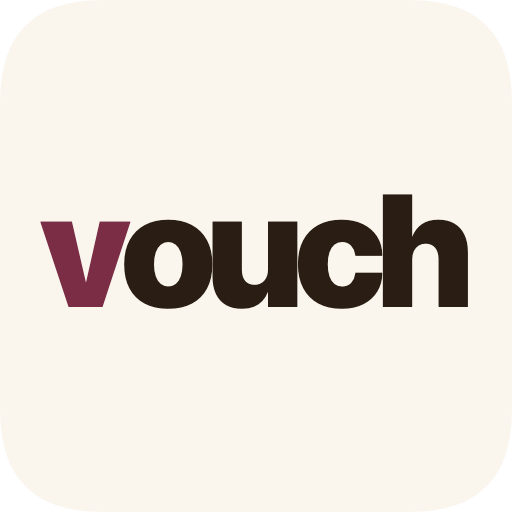
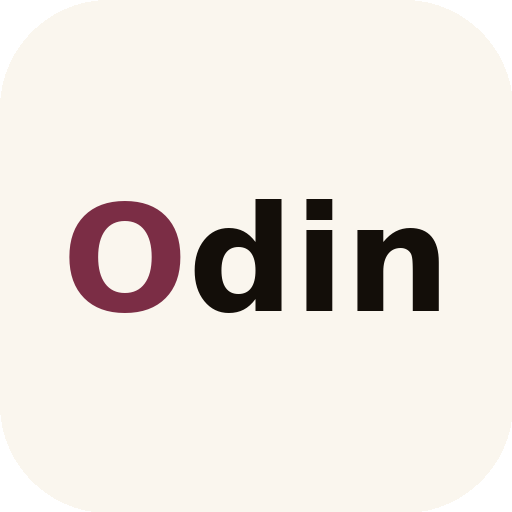
change the landing page as well.
update the landing page logo as well

Changed region(s): [[0.0625, 0.375, 0.9375, 0.625]]

diff --git a/odin-logo-favicon-preview.html b/odin-logo-favicon-preview.html
@@ -1,0 +1,272 @@
+<!DOCTYPE html>
+<html lang="en">
+<head>
+<meta charset="UTF-8">
+<meta name="viewport" content="width=device-width, initial-scale=1.0">
+<title>Odin — Logo & Favicon Assets</title>
+<link href="https://fonts.googleapis.com/css2?family=DM+Sans:wght@400;600;700;900&display=swap" rel="stylesheet">
+<style>
+* { margin:0; padding:0; box-sizing:border-box; }
+body { font-family: 'DM Sans', sans-serif; background: #F0EAE0; padding: 48px 24px 80px; }
+
+.wrap { max-width: 900px; margin: 0 auto; }
+
+.page-title { font-size: 22px; font-weight: 700; color: #130E09; letter-spacing: -0.02em; margin-bottom: 6px; }
+.page-sub   { font-size: 13px; color: #A89080; margin-bottom: 40px; }
+
+.section-title {
+  font-size: 10px; font-weight: 700; letter-spacing: 0.14em;
+  text-transform: uppercase; color: #A89080;
+  padding-bottom: 8px; border-bottom: 1px solid #D0BFA8;
+  margin-bottom: 14px; margin-top: 36px;
+}
+
+.row { display: grid; grid-template-columns: 1fr 1fr; gap: 12px; }
+
+.tile { border-radius: 16px; overflow: hidden; border: 1px solid rgba(0,0,0,0.08); }
+.tile-label {
+  font-size: 10px; font-weight: 700; letter-spacing: 0.14em;
+  text-transform: uppercase; padding: 14px 20px 10px;
+  border-bottom-width: 1px; border-bottom-style: solid;
+}
+.tile-body { padding: 36px 40px; display: flex; flex-direction: column; gap: 28px; }
+
+.tile-day  { background: #FAF6EE; }
+.tile-day  .tile-label { color: #A89080; background: #FAF6EE; border-color: #D0BFA8; }
+.tile-dark { background: #0B0F1A; }
+.tile-dark .tile-label { color: #4A5568; background: #0B0F1A; border-color: rgba(255,255,255,0.06); }
+
+/* Logo */
+.logo { font-family: 'DM Sans', sans-serif; font-weight: 900; letter-spacing: -0.04em; line-height: 1; }
+.size-row { display: flex; flex-direction: column; gap: 6px; }
+.size-label { font-size: 10px; font-weight: 600; letter-spacing: 0.1em; text-transform: uppercase; margin-bottom: 4px; }
+
+/* Favicon pill */
+.fav-sizes { display: flex; flex-direction: column; gap: 18px; }
+.fav-item { display: flex; align-items: center; gap: 16px; }
+.fav-pill {
+  display: flex; align-items: center; justify-content: center;
+  border-radius: 18%;
+  font-family: 'DM Sans', sans-serif; font-weight: 900; letter-spacing: -0.04em;
+  flex-shrink: 0;
+}
+.fav-meta { display: flex; flex-direction: column; gap: 2px; }
+.fav-sz   { font-size: 11px; font-weight: 700; }
+.fav-note { font-size: 11px; }
+
+/* Files */
+.file-list { background: white; border-radius: 16px; border: 1px solid #D0BFA8; overflow: hidden; margin-top: 10px; }
+.file-row { display: flex; align-items: center; justify-content: space-between; padding: 14px 20px; border-bottom: 1px solid #F0E8DC; }
+.file-row:last-child { border-bottom: none; }
+.file-name { font-size: 13px; font-weight: 600; color: #130E09; font-family: monospace; }
+.file-desc { font-size: 12px; color: #A89080; margin-top: 2px; }
+.file-badge { font-size: 10px; font-weight: 700; letter-spacing: 0.08em; text-transform: uppercase; padding: 3px 10px; border-radius: 6px; }
+.badge-svg { background: #7B2D4515; color: #7B2D45; }
+.badge-fav { background: #D4622A15; color: #D4622A; }
+
+/* Usage */
+.usage { background: #FAF6EE; border-radius: 14px; padding: 22px 26px; border: 1px solid #D0BFA8; margin-top: 10px; }
+.usage-title { font-size: 10px; font-weight: 700; letter-spacing: 0.12em; text-transform: uppercase; color: #7B2D45; margin-bottom: 12px; }
+.usage pre { font-size: 12px; line-height: 1.9; color: #130E09; font-family: monospace; white-space: pre-wrap; }
+.c { color: #A89080; }
+</style>
+</head>
+<body>
+<div class="wrap">
+
+  <div class="page-title"><span style="color:#7B2D45;">O</span>din — Logo &amp; Favicon Assets</div>
+  <div class="page-sub">SVG format · scales to any size · transparent background (logo) · pill background (favicon)</div>
+
+  <!-- WORDMARK -->
+  <div class="section-title">Wordmark — Full Logo</div>
+  <div class="row">
+    <div class="tile tile-day">
+      <div class="tile-label">☀ Day — Warm Stone</div>
+      <div class="tile-body">
+        <div class="size-row">
+          <div class="size-label" style="color:#A89080;">72px — Hero / Splash</div>
+          <div class="logo" style="font-size:72px;"><span style="color:#7B2D45;">O</span><span style="color:#130E09;">din</span></div>
+        </div>
+        <div class="size-row">
+          <div class="size-label" style="color:#A89080;">48px — Navbar</div>
+          <div class="logo" style="font-size:48px;"><span style="color:#7B2D45;">O</span><span style="color:#130E09;">din</span></div>
+        </div>
+        <div class="size-row">
+          <div class="size-label" style="color:#A89080;">32px — Compact</div>
+          <div class="logo" style="font-size:32px;"><span style="color:#7B2D45;">O</span><span style="color:#130E09;">din</span></div>
+        </div>
+        <div class="size-row">
+          <div class="size-label" style="color:#A89080;">20px — Minimum</div>
+          <div class="logo" style="font-size:20px;"><span style="color:#7B2D45;">O</span><span style="color:#130E09;">din</span></div>
+        </div>
+      </div>
+    </div>
+    <div class="tile tile-dark">
+      <div class="tile-label">🌙 Dark — Deep Navy</div>
+      <div class="tile-body">
+        <div class="size-row">
+          <div class="size-label" style="color:#4A5568;">72px — Hero / Splash</div>
+          <div class="logo" style="font-size:72px;"><span style="color:#D4622A;">O</span><span style="color:#F0EBE3;">din</span></div>
+        </div>
+        <div class="size-row">
+          <div class="size-label" style="color:#4A5568;">48px — Navbar</div>
+          <div class="logo" style="font-size:48px;"><span style="color:#D4622A;">O</span><span style="color:#F0EBE3;">din</span></div>
+        </div>
+        <div class="size-row">
+          <div class="size-label" style="color:#4A5568;">32px — Compact</div>
+          <div class="logo" style="font-size:32px;"><span style="color:#D4622A;">O</span><span style="color:#F0EBE3;">din</span></div>
+        </div>
+        <div class="size-row">
+          <div class="size-label" style="color:#4A5568;">20px — Minimum</div>
+          <div class="logo" style="font-size:20px;"><span style="color:#D4622A;">O</span><span style="color:#F0EBE3;">din</span></div>
+        </div>
+      </div>
+    </div>
+  </div>
+
+  <!-- FAVICON -->
+  <div class="section-title">Favicon — Full Wordmark at all sizes</div>
+  <div class="row">
+
+    <!-- DAY FAVICON -->
+    <div class="tile tile-day">
+      <div class="tile-label">☀ Day — Warm Stone</div>
+      <div class="tile-body">
+        <div class="fav-sizes">
+
+          <div class="fav-item">
+            <div class="fav-pill" style="width:180px;height:56px;background:#FAF6EE;border:1.5px solid #D0BFA8;border-radius:12px;">
+              <span style="font-size:38px;font-family:'DM Sans',sans-serif;font-weight:900;letter-spacing:-0.04em;"><span style="color:#7B2D45;">O</span><span style="color:#130E09;">din</span></span>
+            </div>
+            <div class="fav-meta">
+              <div class="fav-sz" style="color:#A89080;">180×56 — App icon</div>
+              <div class="fav-note" style="color:#C0B0A0;">Splash, loading screen</div>
+            </div>
+          </div>
+
+          <div class="fav-item">
+            <div class="fav-pill" style="width:120px;height:40px;background:#FAF6EE;border:1.5px solid #D0BFA8;border-radius:9px;">
+              <span style="font-size:26px;font-family:'DM Sans',sans-serif;font-weight:900;letter-spacing:-0.04em;"><span style="color:#7B2D45;">O</span><span style="color:#130E09;">din</span></span>
+            </div>
+            <div class="fav-meta">
+              <div class="fav-sz" style="color:#A89080;">120×40 — Navbar</div>
+              <div class="fav-note" style="color:#C0B0A0;">Top bar, header</div>
+            </div>
+          </div>
+
+          <div class="fav-item">
+            <div class="fav-pill" style="width:80px;height:28px;background:#FAF6EE;border:1.5px solid #D0BFA8;border-radius:6px;">
+              <span style="font-size:18px;font-family:'DM Sans',sans-serif;font-weight:900;letter-spacing:-0.04em;"><span style="color:#7B2D45;">O</span><span style="color:#130E09;">din</span></span>
+            </div>
+            <div class="fav-meta">
+              <div class="fav-sz" style="color:#A89080;">80×28 — Compact</div>
+              <div class="fav-note" style="color:#C0B0A0;">Tab bar, small UI</div>
+            </div>
+          </div>
+
+          <div class="fav-item">
+            <div class="fav-pill" style="width:52px;height:20px;background:#FAF6EE;border:1.5px solid #D0BFA8;border-radius:4px; padding: 0 4px;">
+              <span style="font-size:12px;font-family:'DM Sans',sans-serif;font-weight:900;letter-spacing:-0.03em;"><span style="color:#7B2D45;">O</span><span style="color:#130E09;">din</span></span>
+            </div>
+            <div class="fav-meta">
+              <div class="fav-sz" style="color:#A89080;">52×20 — Browser tab</div>
+              <div class="fav-note" style="color:#C0B0A0;">Favicon in browser</div>
+            </div>
+          </div>
+
+        </div>
+      </div>
+    </div>
+
+    <!-- DARK FAVICON -->
+    <div class="tile tile-dark">
+      <div class="tile-label">🌙 Dark — Deep Navy</div>
+      <div class="tile-body">
+        <div class="fav-sizes">
+
+          <div class="fav-item">
+            <div class="fav-pill" style="width:180px;height:56px;background:#0B0F1A;border:1.5px solid #1C2436;border-radius:12px;">
+              <span style="font-size:38px;font-family:'DM Sans',sans-serif;font-weight:900;letter-spacing:-0.04em;"><span style="color:#D4622A;">O</span><span style="color:#F0EBE3;">din</span></span>
+            </div>
+            <div class="fav-meta">
+              <div class="fav-sz" style="color:#4A5568;">180×56 — App icon</div>
+              <div class="fav-note" style="color:#2E3A4E;">Splash, loading screen</div>
+            </div>
+          </div>
+
+          <div class="fav-item">
+            <div class="fav-pill" style="width:120px;height:40px;background:#0B0F1A;border:1.5px solid #1C2436;border-radius:9px;">
+              <span style="font-size:26px;font-family:'DM Sans',sans-serif;font-weight:900;letter-spacing:-0.04em;"><span style="color:#D4622A;">O</span><span style="color:#F0EBE3;">din</span></span>
+            </div>
+            <div class="fav-meta">
+              <div class="fav-sz" style="color:#4A5568;">120×40 — Navbar</div>
+              <div class="fav-note" style="color:#2E3A4E;">Top bar, header</div>
+            </div>
+          </div>
+
+          <div class="fav-item">
+            <div class="fav-pill" style="width:80px;height:28px;background:#0B0F1A;border:1.5px solid #1C2436;border-radius:6px;">
+              <span style="font-size:18px;font-family:'DM Sans',sans-serif;font-weight:900;letter-spacing:-0.04em;"><span style="color:#D4622A;">O</span><span style="color:#F0EBE3;">din</span></span>
+            </div>
+            <div class="fav-meta">
+              <div class="fav-sz" style="color:#4A5568;">80×28 — Compact</div>
+              <div class="fav-note" style="color:#2E3A4E;">Tab bar, small UI</div>
+            </div>
+          </div>
+
+          <div class="fav-item">
+            <div class="fav-pill" style="width:52px;height:20px;background:#0B0F1A;border:1.5px solid #1C2436;border-radius:4px; padding: 0 4px;">
+              <span style="font-size:12px;font-family:'DM Sans',sans-serif;font-weight:900;letter-spacing:-0.03em;"><span style="color:#D4622A;">O</span><span style="color:#F0EBE3;">din</span></span>
+            </div>
+            <div class="fav-meta">
+              <div class="fav-sz" style="color:#4A5568;">52×20 — Browser tab</div>
+              <div class="fav-note" style="color:#2E3A4E;">Favicon in browser</div>
+            </div>
+          </div>
+
+        </div>
+      </div>
+    </div>
+
+  </div>
+
+  <!-- FILES -->
+  <div class="section-title">Files</div>
+  <div class="file-list">
+    <div class="file-row">
+      <div><div class="file-name">odin-logo-day.svg</div><div class="file-desc">Full wordmark · transparent background · day colours</div></div>
+      <span class="file-badge badge-svg">SVG</span>
+    </div>
+    <div class="file-row">
+      <div><div class="file-name">odin-logo-dark.svg</div><div class="file-desc">Full wordmark · navy background · dark colours</div></div>
+      <span class="file-badge badge-svg">SVG</span>
+    </div>
+    <div class="file-row">
+      <div><div class="file-name">odin-favicon-day.svg</div><div class="file-desc">Full "Odin" wordmark · warm white pill · day colours</div></div>
+      <span class="file-badge badge-fav">FAVICON</span>
+    </div>
+    <div class="file-row">
+      <div><div class="file-name">odin-favicon-dark.svg</div><div class="file-desc">Full "Odin" wordmark · navy pill · dark colours</div></div>
+      <span class="file-badge badge-fav">FAVICON</span>
+    </div>
+  </div>
+
+  <!-- USAGE -->
+  <div class="section-title">How to use</div>
+  <div class="usage">
+    <div class="usage-title">Drop into your HTML</div>
+    <pre><span class="c">&lt;!-- Favicon (browser tab) --&gt;</span>
+&lt;link rel="icon" type="image/svg+xml" href="/odin-favicon-day.svg"&gt;
+
+<span class="c">&lt;!-- App icon / navbar --&gt;</span>
+&lt;img src="/odin-logo-day.svg" alt="Odin" height="40"&gt;
+
+<span class="c">&lt;!-- Or pure CSS — auto switches with OS dark mode --&gt;</span>
+&lt;span class="odin-logo"&gt;
+  &lt;span class="o"&gt;O&lt;/span&gt;&lt;span class="rest"&gt;din&lt;/span&gt;
+&lt;/span&gt;</pre>
+  </div>
+
+</div>
+</body>
+</html>

diff --git a/index.html b/index.html
@@ -622,7 +622,7 @@
                         <span class="ls-pilot-text">INVITE-ONLY PILOT</span>
                     </div>
 
-                    <div class="ls-logo"><span class="lsv">v</span><span class="lso">ouch</span></div>
+                    <div class="ls-logo"><span class="lsv">O</span><span class="lso">din</span></div>
 
                     <div class="ls-headline-area">
                         <div class="ls-headline visible" id="lsh0">Ask your friends —<br><em>without asking</em><br>your friends.</div>
